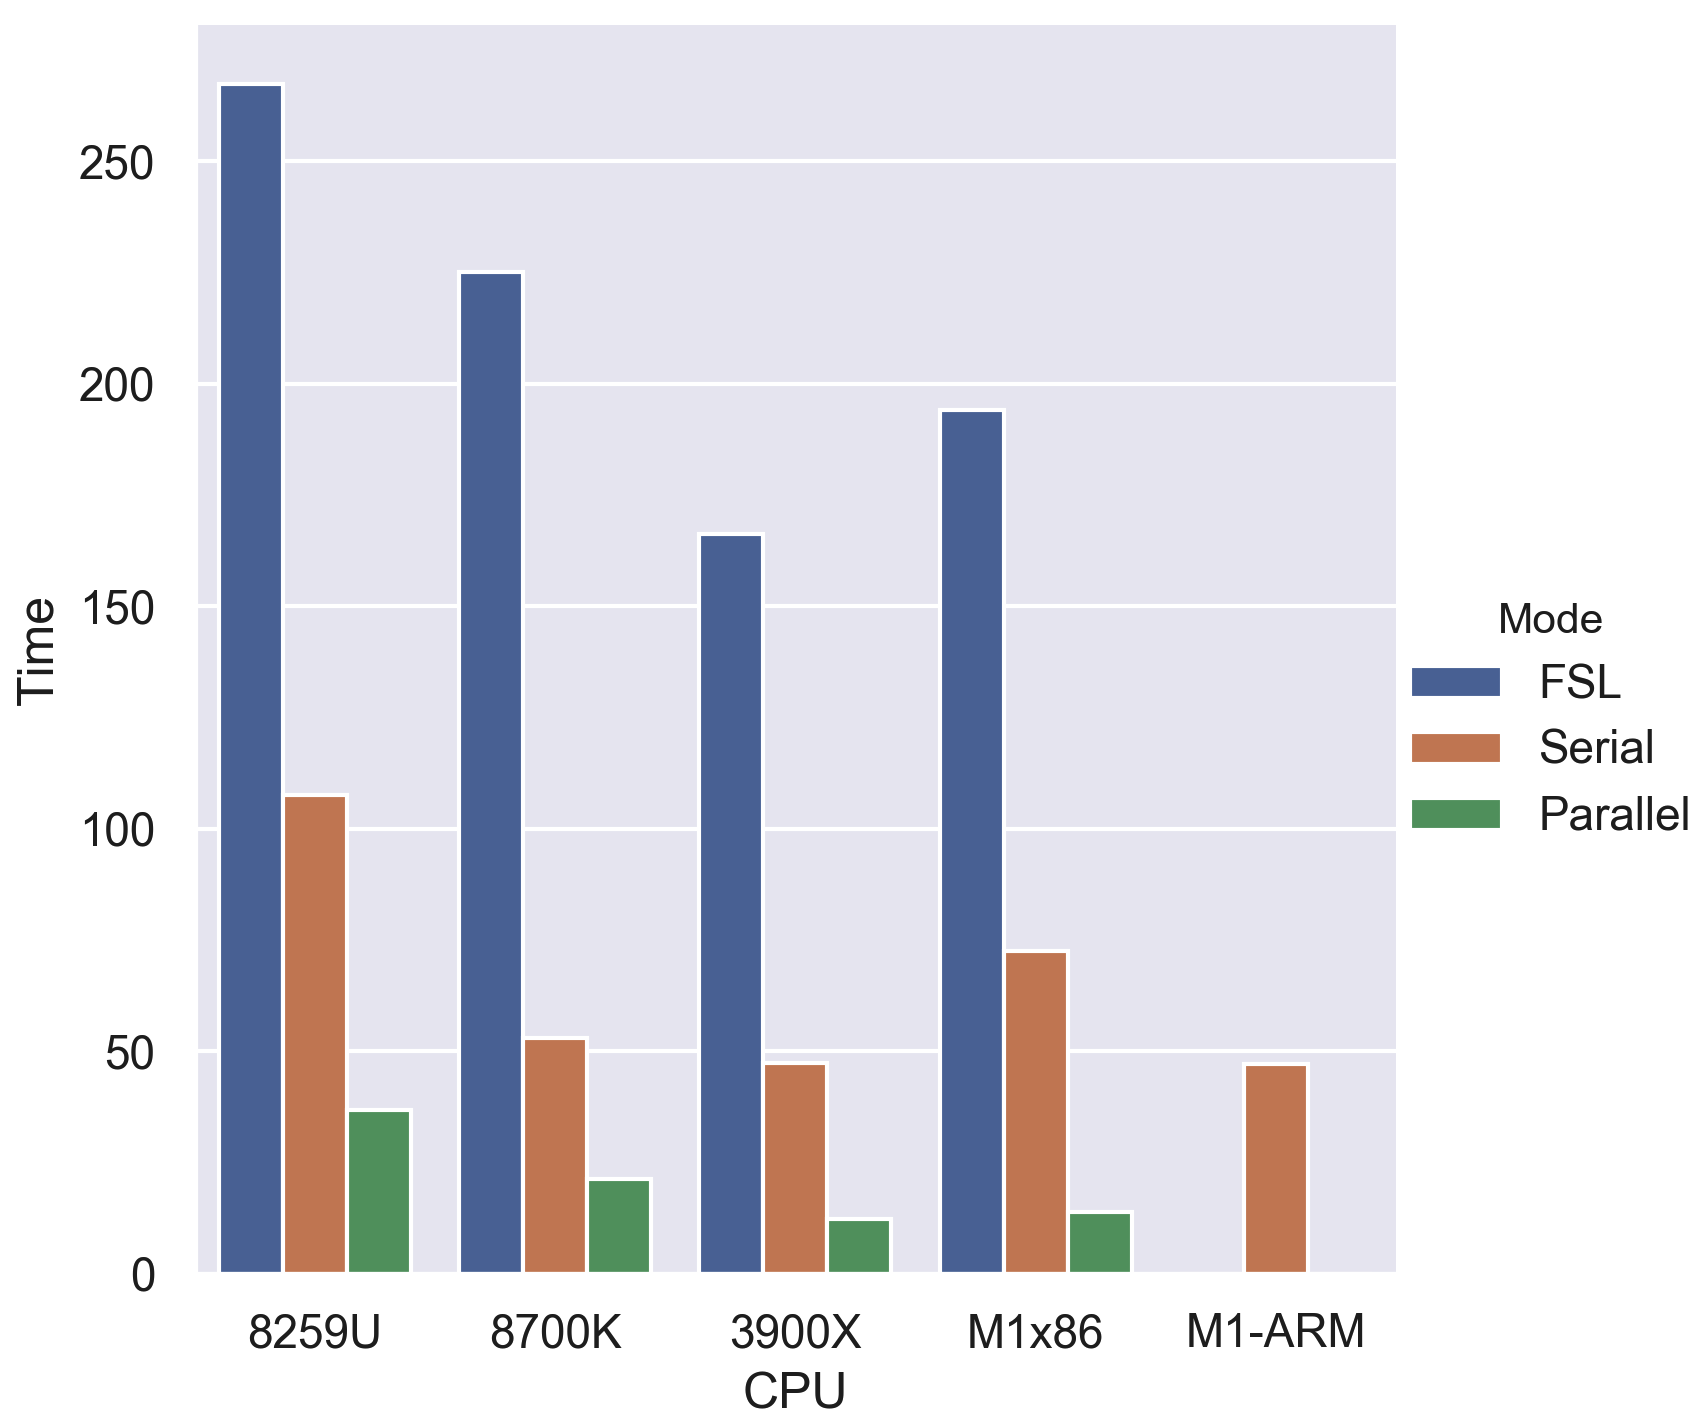
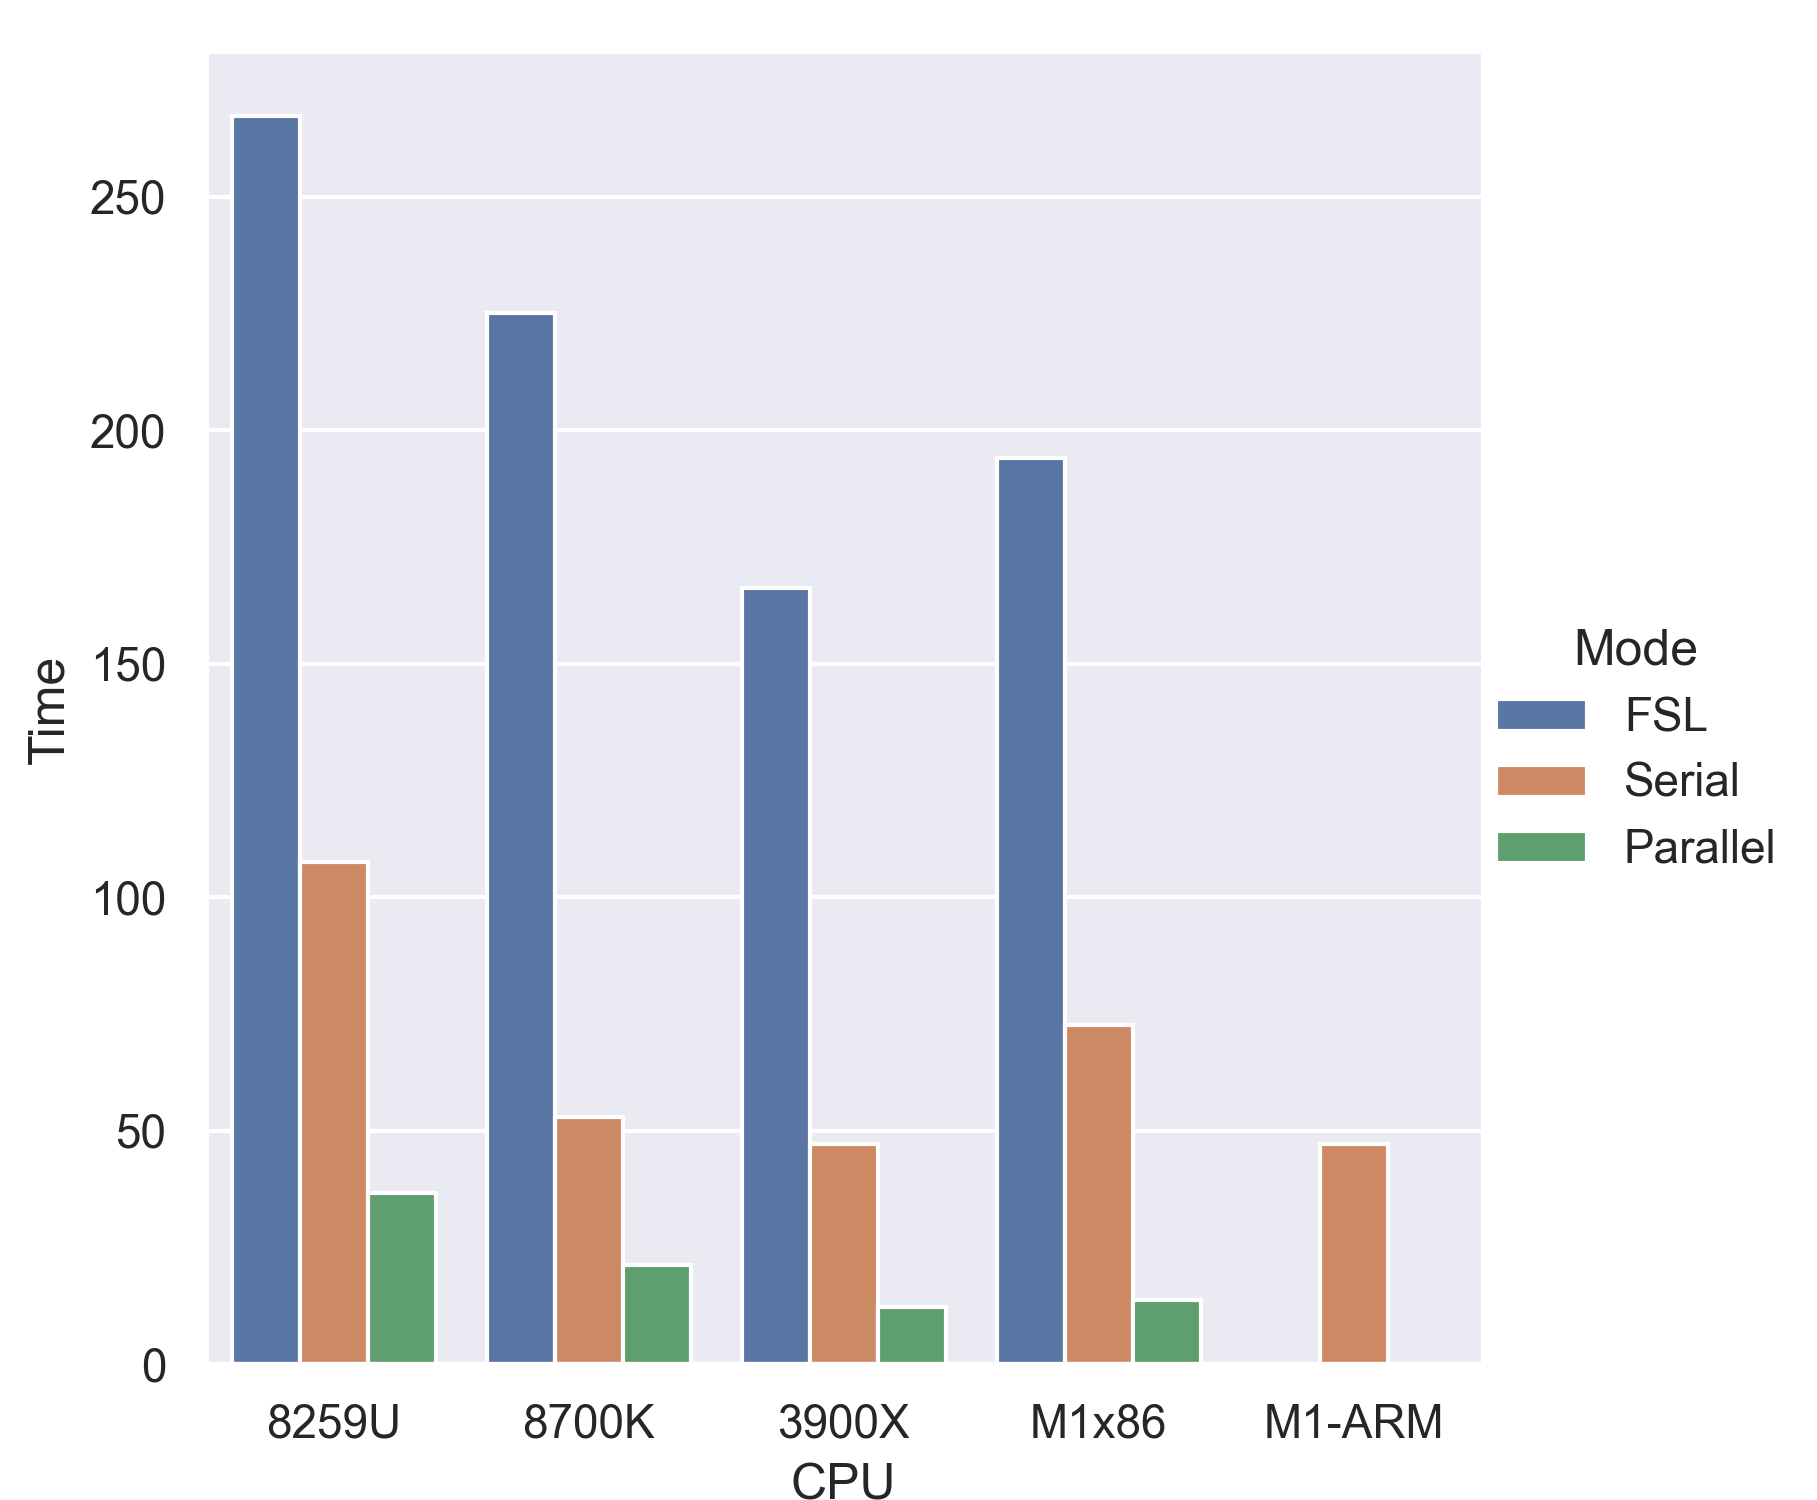
SIMD and FP64 details

diff --git a/simd_graph.py b/simd_graph.py
@@ -1,0 +1,23 @@
+#!/usr/bin/env python3
+# -*- coding: utf-8 -*-
+
+#plot geometric mean for 
+# fslmaths 4drest  -Tmean -mul -1 -add 4drest temp
+# fslmaths 4drest  -bptf 77 8.68 temp
+# fslmaths 4drest -s 2.548 temp
+# fslmaths 3dt1  -kernel boxv 7 -dilM temp
+
+import pandas as pd
+import seaborn as sns
+import matplotlib.pyplot as plt
+#MacBook i5-8259U
+#Ubuntu i7-8700K
+#Ubuntu 3900X
+df = pd.DataFrame({'CPU': ['8259U', '8259U', '8259U', '8259U', '8259U', '8259U', '3900X','3900X','3900X','3900X','3900X','3900X', 'M1-ARM','M1-ARM','M1-ARM', 'M1-ARM','M1-ARM','M1-ARM'],
+					'Mode': ['1x32','4x32', '8x32','1x64','2x64', '4x64','1x32','4x32', '8x32','1x64','2x64', '4x64','1x32','4x32', '8x32','1x64','2x64', '4x64'],
+					'Time': [1366, 1603, 1727, 5075, 4765, 4618, 1008, 265, 186, 1515, 762, 341, 448, 437, 0, 1499, 0, 0]})
+
+
+sns.set()
+sns.catplot(x="CPU", y="Time", hue="Mode", kind="bar", data=df)
+plt.savefig('simd.png', dpi=300)

diff --git a/README.md b/README.md
@@ -39,7 +39,7 @@ Four computers were tested:
  - MacBook Pro (2018) with Intel [i5-8259u](https://ark.intel.com/content/www/us/en/ark/products/135935/intel-core-i5-8259u-processor-6m-cache-up-to-3-80-ghz.html) (28w) four-core, eight-thread, integrated GPU.
  - Ubuntu 18.04 Intel [i7-8700k](https://ark.intel.com/content/www/us/en/ark/products/126684/intel-core-i7-8700k-processor-12m-cache-up-to-4-70-ghz.html) (95w) six-core, twelve-thread with NVidia GTX [1080 Ti](https://www.geforce.com/hardware/desktop-gpus/geforce-gtx-1080-ti/specifications) (250w) GPU.
  - Ubuntu 20.04 AMD [Ryzen 9 3900X](https://www.amd.com/en/products/cpu/amd-ryzen-9-3900x) (105w) twelve-core, twenty-four-thread  with NVidia GTX [1080 Ti](https://www.geforce.com/hardware/desktop-gpus/geforce-gtx-1080-ti/specifications) (250w) GPU. Tests were run on a RAM disk to maximize memory performance.
- - MacBook Air (2020) with Apple Silicon [M1](https://en.wikipedia.org/wiki/Apple_M1) (~15w) with four fast cores plus four efficiency cores and integrated GPU. Note this configuration does not have active cooling, so performance may be thermally constrained.
+ - MacBook Air (2020) with Apple Silicon [M1](https://en.wikipedia.org/wiki/Apple_M1) (~15w) with four fast cores plus four efficiency cores and integrated GPU (8 Gb RAM, 256 Gb SSD, 7 GPUs). Note this configuration does not have active cooling, so performance is thermally constrained (for example, the [Mac mini M1](https://appleinsider.com/articles/20/11/24/apple-silicon-m1-mac-mini-review---speed-today-and-a-promise-of-more-later) is faster for sustained workloads).
 
 ## AFNI
 
@@ -110,6 +110,14 @@ Tools like SPM use the value [`Not a Number`](https://en.wikipedia.org/wiki/NaN)
 ## Double-precision floating-point format
 
 While 32-bit (FP32) computations are sufficient for most needs, some scientific tools demand double-precision floating-point format ([FP64](https://en.wikipedia.org/wiki/Double-precision_floating-point_format)). Indeed, tools like Matlab use FP64 by default and are tuned for this datatype. FP64 has demands for speed, efficiency and bandwidth. It is common for consumer devices like video gaming graphics cards to devote fewer resources to [FP64](https://www.microway.com/knowledge-center-articles/comparison-of-nvidia-geforce-gpus-and-nvidia-tesla-gpus/) than graphics cards used for industrial compute applications. Given the M1's heritage as a processor for consumer mobile phones, one might wonder if the FP64 performance has been compromised. To investigate this,  [niimath](https://github.com/rordenlab/niimath) was run with both FP64 and FP32 datatypes. The penalty for FP64 seems minimal, emphasizing the potential for scientific applications.
+
+Floating-point performance was tested with a [simple C program](https://github.com/neurolabusc/simd) that compares classic scalar C code with code that explicitly uses vectorized SIMD (single instruction, multiple data). Note a smart compiler might be able to vectorize C code. In the graph below, the square-root is calculated independently for 808704000 voxels [emulating a resting state dataset](https://protocols.humanconnectome.org/HCP/3T/imaging-protocols.html). Conducting a single computation on a huge array is cache inefficient, but typical behavior for many neuroimaging tools. Therefore, on many platforms this test may be constrained by memory bandwidth rather than computational power.
+
+The x86-64 architecture provides 128-bit SSE instructions (which can handle x4 32-bit computations or x2 64-bit computations at once), 256-bit AVX (x8, x4), and (untested) 512-bit AVX-512 (x16, x8). Note that using these power-hungry instructions can lead to a [reduction](https://blog.cloudflare.com/on-the-dangers-of-intels-frequency-scaling/) in clock [frequency](https://lemire.me/blog/2018/09/04/per-core-frequency-scaling-and-avx-512-an-experiment/). The Apple M1 includes 128-bit Neon instructions, but not the upcomg Scalable Vector Extension (SVE) instructions.
+
+The graph shows milliseconds to compute square-root for 808704000 voxels. The i5-8259u appears constrained by the bandwidth of its lower power memory, as explicit vector instructions do not improve performance. The Ryzen 3900X has outstanding floating-point computational abilities, combined with high-performance (albeit power hungry) memory. The M1 shows no benefit fromexplicit use of Neon instructions, suggesting either the compiler implicitly uses them or this task is memory constrained. While the M1 is slower for double-precision (64-bit) versus single-precision (32-bit) computations, this is a stunning performance considering the 10w power envelope.
+
+![simd](simd.png)
 
 ## Conclusions
 

diff --git a/simd.md b/simd.md
@@ -1,0 +1,87 @@
+##  i5-8259U clang 
+
+simd >g++ -O3 -o tst main.cpp -march=native
+simd >./tst 5
+Reporting minimum time for 5 tests
+i16_f32: min/mean	377	545	ms
+i16_f32sse: min/mean	383	442	ms
+sqrt: min/mean	1366	1744	ms
+sqrtSSE: min/mean	1603	1819	ms
+sqrtAVX: min/mean	1727	1818	ms
+sqrt64: min/mean	5075	5854	ms
+sqrt64SSE: min/mean	4765	5227	ms
+sqrt64AVX: min/mean	4618	5786	ms
+fma: min/mean	1761	2038	ms
+fmaSSE: min/mean	1687	1906	ms
+fmaAVX: min/mean	1616	1813	ms
+fma (memory alignment not forced): min/mean	2675	3246	ms
+
+##  i5-8259U gcc
+
+simd >g++-9 -O3 -o tst main.cpp -march=native
+simd >./tst 5
+Reporting minimum time for 5 tests
+i16_f32: min/mean	382	390	ms
+i16_f32sse: min/mean	379	382	ms
+sqrt: min/mean	1990	2280	ms
+sqrtSSE: min/mean	1617	1719	ms
+sqrtAVX: min/mean	1554	1650	ms
+sqrt64: min/mean	4885	5573	ms
+sqrt64SSE: min/mean	4584	5670	ms
+sqrt64AVX: min/mean	4709	5004	ms
+fma: min/mean	671	1437	ms
+fmaSSE: min/mean	1411	1769	ms
+fmaAVX: min/mean	1399	1726	ms
+fma (memory alignment not forced): min/mean	3224	3628	ms
+
+## 3900X clang 
+
+simd>clang++ -O3 -o tst main.cpp -march=native
+simd>./tst 5
+Reporting minimum time for 5 tests
+i16_f32: min/mean	234	234	ms
+i16_f32sse: min/mean	223	227	ms
+sqrt: min/mean	1008	1008	ms
+sqrtSSE: min/mean	265	265	ms
+sqrtAVX: min/mean	186	186	ms
+sqrt64: min/mean	1515	1570	ms
+sqrt64SSE: min/mean	762	763	ms
+sqrt64AVX: min/mean	341	341	ms
+fma: min/mean	179	179	ms
+fmaSSE: min/mean	202	202	ms
+fmaAVX: min/mean	184	184	ms
+fma (memory alignment not forced): min/mean	178	178	ms
+
+## 3900X gcc
+
+g++ -O3 -o tst main.cpp -march=native
+make: warning:  Clock skew detected.  Your build may be incomplete.
+simd>./tst 5
+Reporting minimum time for 5 tests
+i16_f32: min/mean	226	226	ms
+i16_f32sse: min/mean	227	227	ms
+sqrt: min/mean	964	964	ms
+sqrtSSE: min/mean	255	255	ms
+sqrtAVX: min/mean	180	180	ms
+sqrt64: min/mean	1491	1491	ms
+sqrt64SSE: min/mean	762	762	ms
+sqrt64AVX: min/mean	344	344	ms
+fma: min/mean	184	184	ms
+fmaSSE: min/mean	206	206	ms
+fmaAVX: min/mean	185	185	ms
+fma (memory alignment not forced): min/mean	184	185	ms
+
+## M1 clang
+
+> make ARCH=arm
+g++ -O3 -o tst main.cpp -march=armv8-a+fp+simd+crypto+crc
+simd > ./tst 5      
+Reporting minimum time for 5 tests
+i16_f32: min/mean	79	91	ms
+i16_f32sse: min/mean	79	82	ms
+sqrt: min/mean	448	488	ms
+sqrtSSE: min/mean	437	478	ms
+sqrt64: min/mean	1499	1555	ms
+fma: min/mean	441	471	ms
+fmaSSE: min/mean	478	509	ms
+fma (memory alignment not forced): min/mean	669	709	ms
